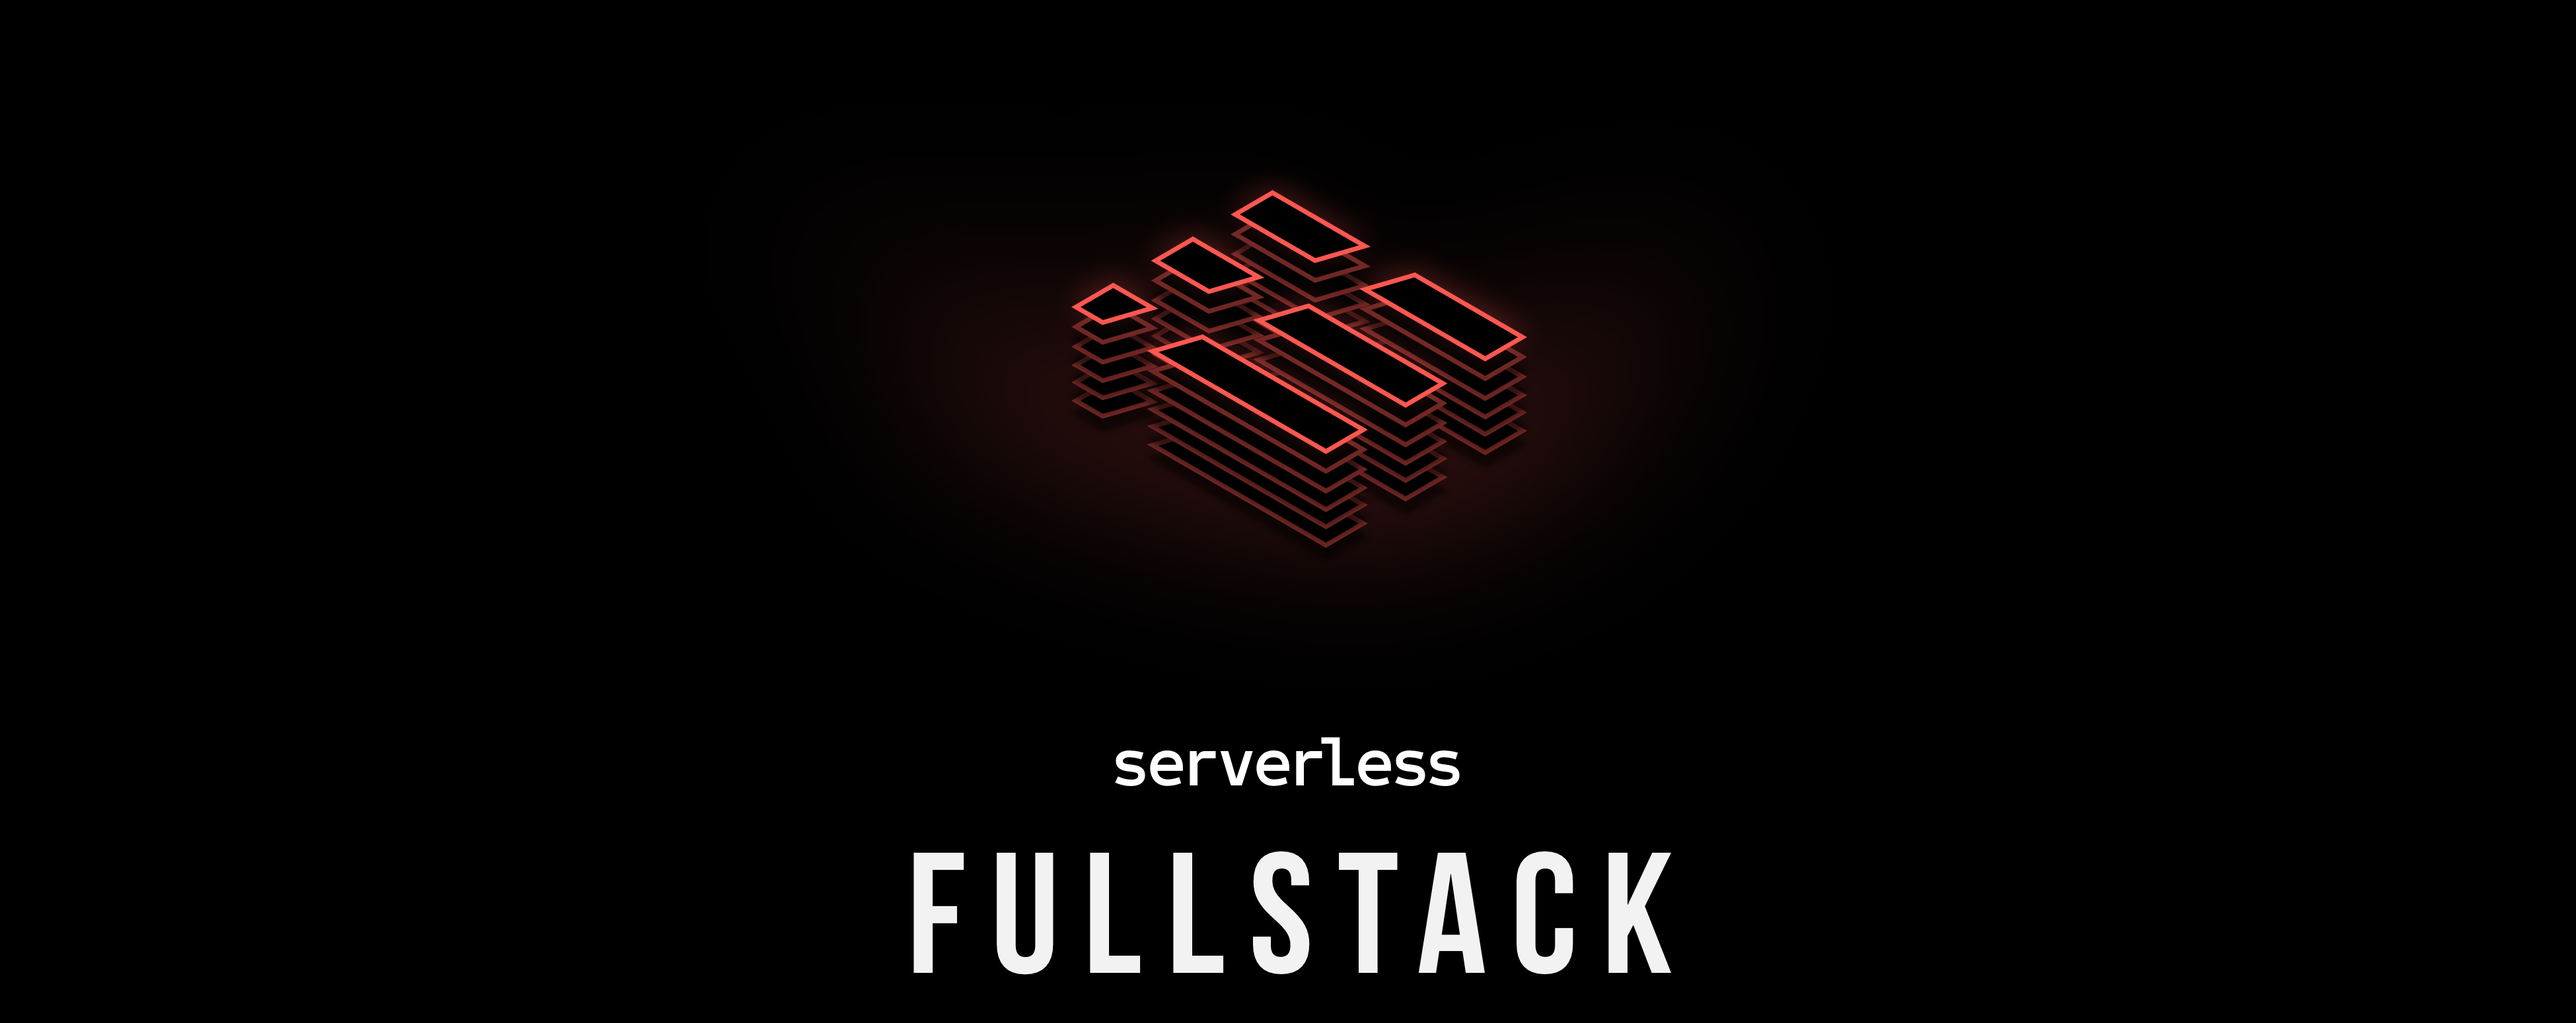
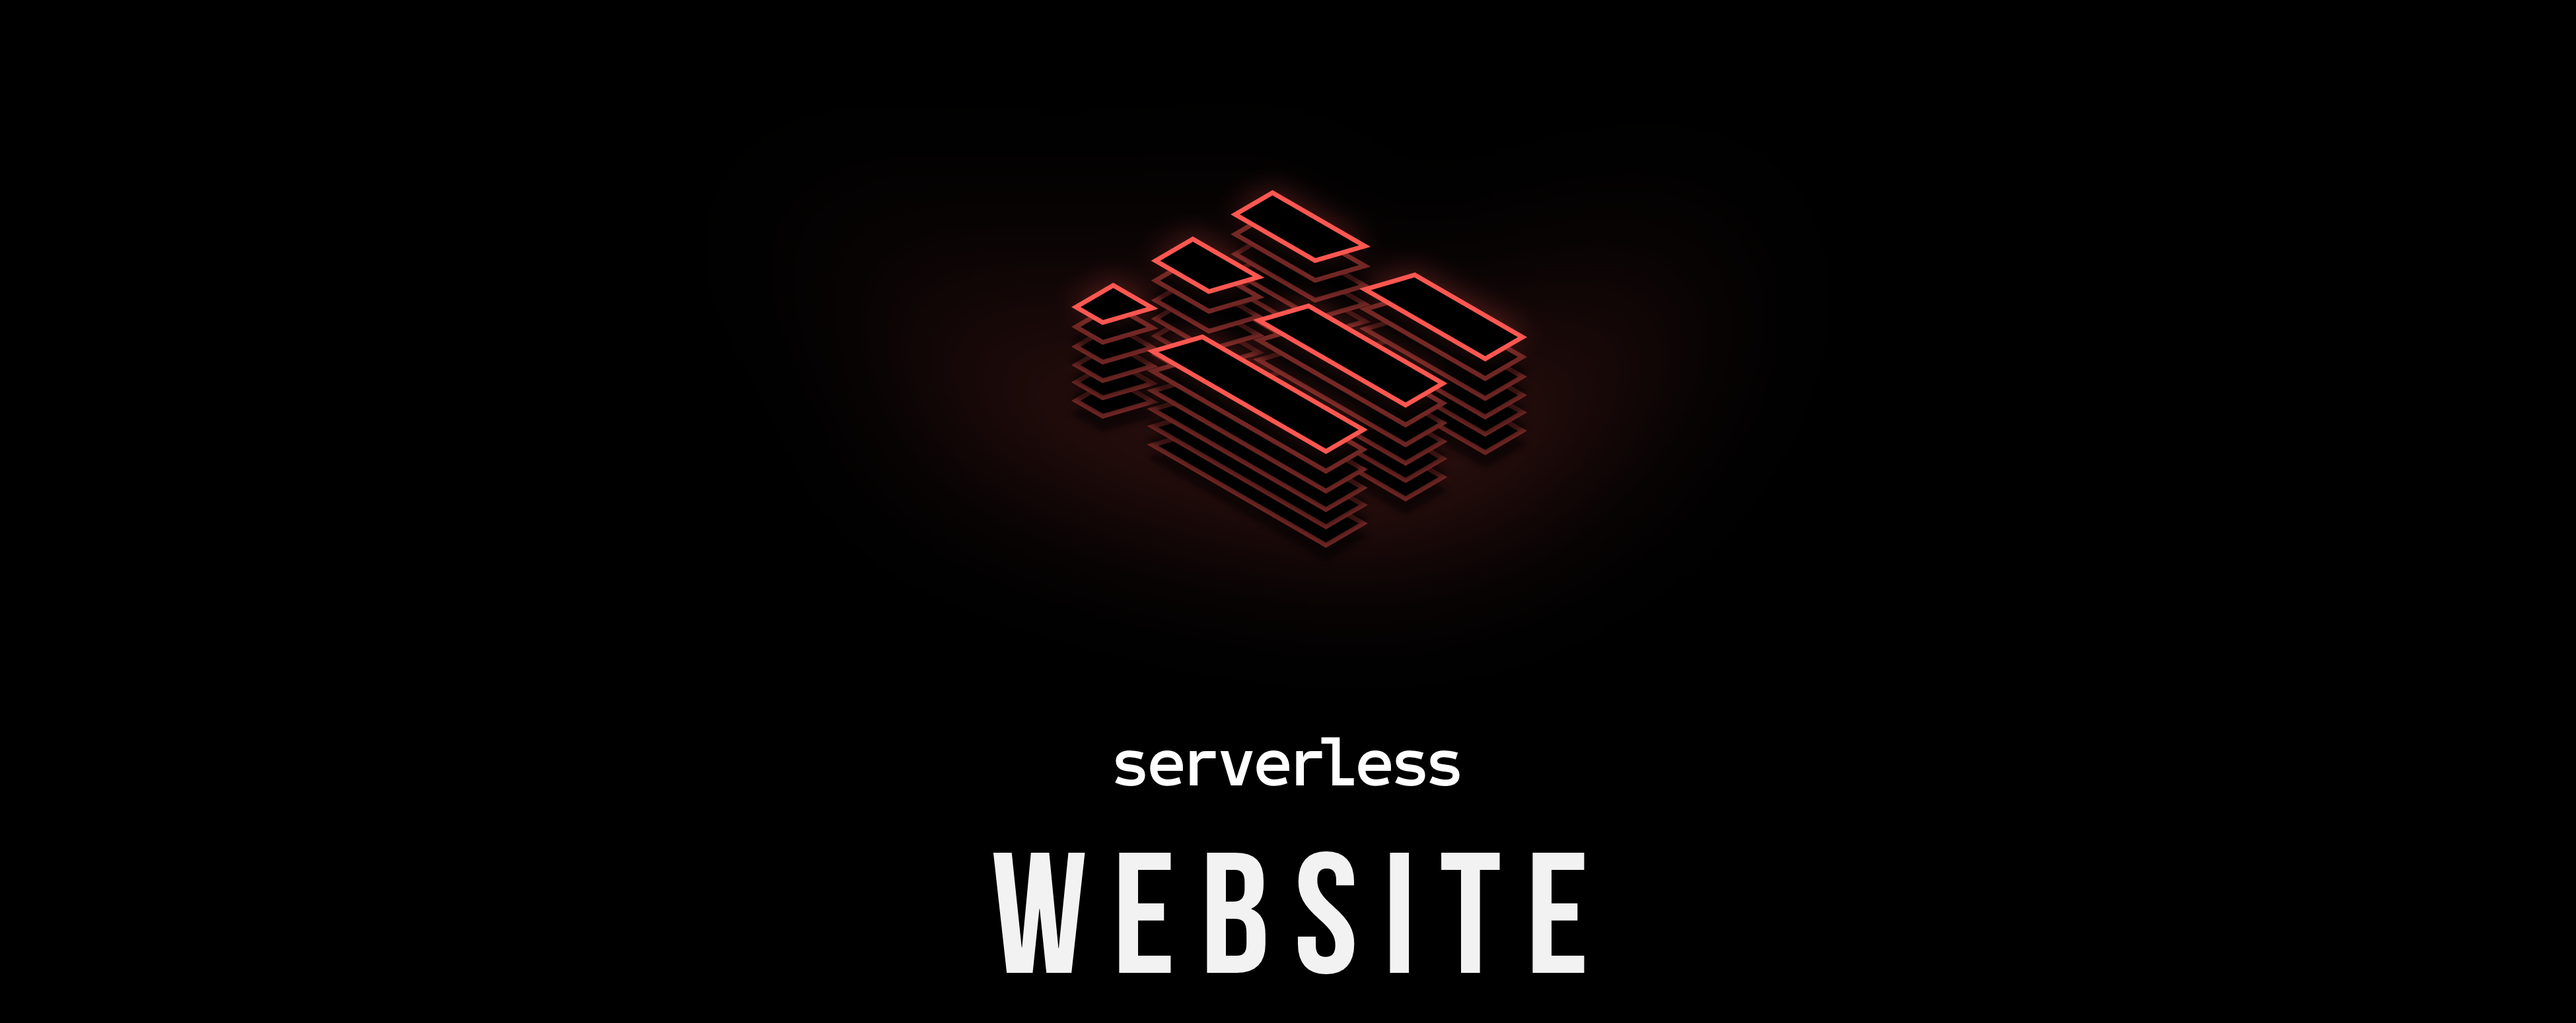
fix website template

Changed region(s): [[0.3413, 0.8361, 0.6515, 0.96]]

diff --git a/templates/website/src/App.js b/templates/website/src/App.js
@@ -1,5 +1,4 @@
 import React, { Component } from 'react'
-import lib from './lib'
 import imageHero from './images/hero.png'
 
 export default class App extends Component {
@@ -16,35 +15,14 @@ export default class App extends Component {
    * Component Did Mount
    */
 
-  async componentDidMount() {
-    const self = this
-    await self.getVotes()
-  }
-
-  /**
-   * Get Votes
-   */
-
-  async getVotes() {
-    const self = this
-    if (self.timer) clearInterval(self.timer)
-    const votes = await lib.getVotes()
-    self.setState({ votes: votes.votes || 0 }, () => {
-      self.timer = setInterval(async () => {
-        await self.getVotes()
-      }, 3000)
-    })
-  }
+  async componentDidMount() {}
 
   /**
    * Save Vote
    */
 
   async saveVote() {
-    const self = this
-    this.setState({ votes: this.state.votes + 1 }, async () => {
-      await lib.saveVote()
-    })
+    this.setState({ votes: this.state.votes + 1 })
   }
 
   /**
@@ -61,7 +39,7 @@ export default class App extends Component {
         </div>
 
         <div className='tagline'>
-          a fullstack app built on serverless components via the serverless framework
+          a website built on serverless components via the serverless framework
         </div>
 
         <div className='buttonContainer'>

diff --git a/templates/website/index.html b/templates/website/index.html
@@ -6,7 +6,7 @@
       <meta http-equiv="X-UA-Compatible" content="ie=edge">
       <link rel="stylesheet" type="text/css" href="./src/app.css">
       <link rel="shortcut icon" href="./src/images/favicon.ico">
-      <title>Serverless Fullstack</title>
+      <title>Serverless Website</title>
   </head>
 
   <body>

diff --git a/templates/website/src/index.js b/templates/website/src/index.js
@@ -1,4 +1,3 @@
-// import '../env.js'
 import React from 'react'
 import ReactDOM from 'react-dom'
 import App from './App'
